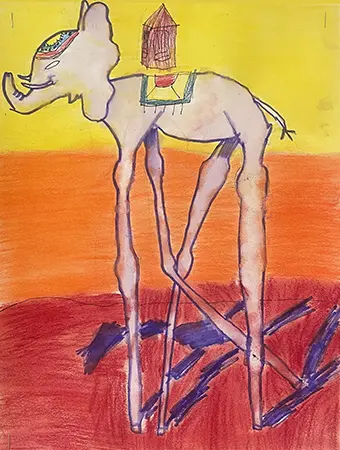
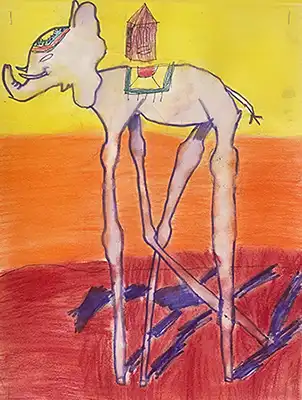
three new art exhibits posted

diff --git a/castle-rock/index.html b/castle-rock/index.html
@@ -1,5 +1,6 @@
 <!DOCTYPE html>
-<html lang="en"><!-- InstanceBegin template="/Templates/page.dwt" codeOutsideHTMLIsLocked="false" -->
+<html lang="en">
+<!-- InstanceBegin template="/Templates/page.dwt" codeOutsideHTMLIsLocked="false" -->
 <head>
 <meta charset="utf-8">
 <meta http-equiv="X-UA-Compatible" content="IE=edge">
@@ -211,22 +212,39 @@ figure {
 .flickity-prev-next-button {
     display: none;
 }
-.art-item-wrapper {
-    display: flex;
-    gap: 20px;
-    padding: 0 15px;
-    max-width: 950px;
+h2.featured-heading {
+    margin: 0 15px 5px;
+}
+.exhibit-wrapper {
+    padding: 50px 15px 80px;
+}
+.exhibit-container {
+    text-align: center;
+    max-width: 640px;
     margin: 0 auto;
 }
-.art-item:last-of-type {
+.exhibit-content {
+    padding: 0 0 30px;
+    margin: 0;
+}
+.art-item-wrapper {
+    display: flex;
+    gap: 15px;
+    max-width: 1000px;
+    margin: 0 auto;
+    padding: 15px 0 30px;
+}
+.art-item-one, .art-item-two {
+    display: flex;
+    justify-content: center;
+}
+.art-item-two {
     display: flex;
     flex-direction: column;
     justify-content: center;
-    flex-basis: 60%;
     align-content: center;
-}
-h2.featured-heading {
-    margin: 0 15px 5px;
+    background: #f5f5f5;
+    padding: 30px 30px 35px;
 }
 .location-events {
     padding: 50px 0 40px;
@@ -312,10 +330,18 @@ transform:scale(1);
     margin: 5px auto 0 auto;
     padding: 40px 15px 50px;
 }
-.art-item {
+.art-item-wrapper {
+    padding: 15px 0 10px;
+}
+.art-item-two {
     text-align: center;
-    max-width: 600px;
-    margin: 0 auto;
+    background: #fff;
+    padding: 0;
+}
+.art-item-one img {
+    display: block;
+    max-width: 100%;
+    height: auto;
 }
 }
 
@@ -673,31 +699,23 @@ transform:scale(1);
         </div>
       </div>
     </section>
-    <section> 
-      <!--<div id="exhibits" class="row padding-top-50">
-        <h2 class="text-center no-margin padding-bottom-30">Art on Display</h2>
-        <div class="art-item-wrapper">
-          <div class="art-item"><img class="img-responsive image-center" alt="Katharina Mace Painting" src="katharina-mace.jpg"> </div>
-          <div class="art-item">
-            <div class="h3 no-margin text-uppercase">Katharina Mace</div>
-            <div class="h4 no-margin">Painting</div>
-            <div class="h5 no-margin-top margin-bottom-5">March 1-April 30</div>
-            <div>Katharina Mace, a Colorado-based children's book illustrator, creates whimsical artwork that captures childhood joy. A Rocky Mountain College of Art and Design graduate, she uses traditional media to tell hopeful stories. When not painting imaginative scenes, she explores bookstores and travels, drawing inspiration from life's diverse experiences.</div>
+    <section>
+      <div id="exhibits" class="row">
+        <div class="exhibit-wrapper">
+          <h2 class="text-center no-margin-top">Art on Display</h2>
+          <div class="art-item-wrapper">
+            <div class="art-item-one"><img alt="Kay Picard Mixed Media" src="kay-picard.webp"> </div>
+            <div class="art-item-two">
+              <div class="h3 no-margin">Kay Picard</div>
+              <div class="h4 margin-top-5 no-margin-bottom">Mixed Media</div>
+              <div class="h5 margin-top-5">November 1-December 31</div>
+              <div>This Colorado Springs native works in a wide variety of mediums and has exhibited in public and private galleries across Colorado.</div>
+            </div>
           </div>
-        </div>
-      </div>
-      <div class="row padding-top-30 padding-bottom-60">
-        <div class="container text-center">
-          <div class="h6 no-margin padding-bottom-20 max-width-80">Douglas County Libraries supports the arts by featuring stunning public art and donating display space at select branches for local artists.</div>
-          <button data-target="#artModal" data-toggle="modal" class="btn btn-primary" type="button">Exhibit Your Work</button>
-        </div>
-      </div>-->
-      
-      <div id="exhibits" class="row padding-top-50 padding-bottom-60">
-        <h2 class="text-center no-margin padding-bottom-15">Art on Display</h2>
-        <div class="container text-center max-width-80">
-          <div class="h6 no-margin-top">Douglas County Libraries supports the arts by featuring stunning public art and donating display space at select branches for local artists.</div>
-          <button data-target="#artModal" data-toggle="modal" class="btn btn-primary margin-top-15" type="button">Exhibit Your Work</button>
+          <div class="exhibit-container">
+            <div class="h6 exhibit-content">Douglas County Libraries supports the arts by featuring stunning public art and donating display space at select branches for local artists.</div>
+            <button data-target="#artModal" data-toggle="modal" class="btn btn-primary" type="button">Exhibit Your Work</button>
+          </div>
         </div>
       </div>
     </section>
@@ -935,4 +953,5 @@ e.async=true;var t=document.getElementsByTagName("script")[0];t.parentNode.inser
 </script> 
 <!-- End Patron Point -->
 </body>
-<!-- InstanceEnd --></html>
+<!-- InstanceEnd -->
+</html>

diff --git a/parker/index.html b/parker/index.html
@@ -632,15 +632,15 @@ transform:scale(1);
       <div id="exhibits" class="row">
         <div class="exhibit-wrapper">
           <h2 class="text-center no-margin-top">Art on Display</h2>
-          <!--<div class="art-item-wrapper">
-            <div class="art-item-one"><img src="jack-thomson.webp" alt="Oil Painting"></div>
+          <div class="art-item-wrapper">
+            <div class="art-item-one"><img src="leman-academy-drawing.webp" alt="Leman Academy Drawing"></div>
             <div class="art-item-two">
-              <div class="h3 no-margin">Jack Thomson</div>
+              <div class="h3 no-margin">Leman Academy of Excellence</div>
               <div class="h4 margin-top-5 no-margin-bottom">Paintings and Drawings</div>
-              <div class="h5 margin-top-5">July 1-August 31</div>
-              <div>Self-taught and driven by a lifelong passion for art, Jack Thomson's work stems from curiosity, research, and observation. Each piece captures his unique impression of the subject.</div>
+              <div class="h5 margin-top-5">November 1-December 31</div>
+              <div>This exhibition features artwork by K–8 students at the Leman Academy of Excellence in Parker. The collection celebrates creativity and imagination and shares the talents of these young artists with the community.</div>
             </div>
-          </div>-->
+          </div>
           <div class="exhibit-container">
             <div class="h6 exhibit-content">Douglas County Libraries supports the arts by featuring stunning public art and donating display space at select branches for local artists.</div>
             <button data-target="#artModal" data-toggle="modal" class="btn btn-primary" type="button">Exhibit Your Work</button>

diff --git a/highlands-ranch/index.html b/highlands-ranch/index.html
@@ -633,12 +633,12 @@ transform:scale(1);
         <div class="exhibit-wrapper">
           <h2 class="text-center no-margin-top">Art on Display</h2>
           <div class="art-item-wrapper">
-            <div class="art-item-one"><img alt="Spring Zen Painting" src="spring-zen.webp"> </div>
+            <div class="art-item-one"><img alt="Hudson Gardens Photograph" src="hudson-gardens.webp"> </div>
             <div class="art-item-two">
-              <div class="h3 no-margin">Rod Schafer</div>
-              <div class="h4 margin-top-5 no-margin-bottom">Paintings</div>
-              <div class="h5 margin-top-5">September 1-October 31</div>
-              <div>This self-taught artist paints out of a deep love for art in all its forms. Nature is their primary inspiration, providing endless beauty through color, texture, and sound.</div>
+              <div class="h3 no-margin">Michel Scheffers</div>
+              <div class="h4 margin-top-5 no-margin-bottom">Photography</div>
+              <div class="h5 margin-top-5">November 1-December 31</div>
+              <div>Working in infrared and HDR photography, this artist departs from literal representation toward emotional interpretation. Color manipulation and digital effects allow an image to take countless forms, each carrying its own mood and narrative.</div>
             </div>
           </div>
           <div class="exhibit-container">
